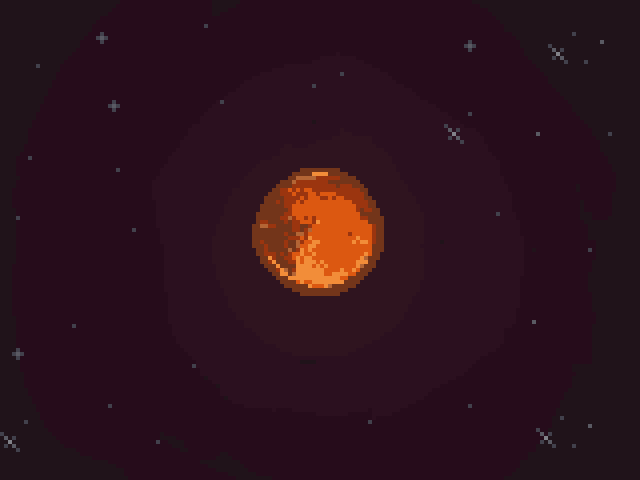
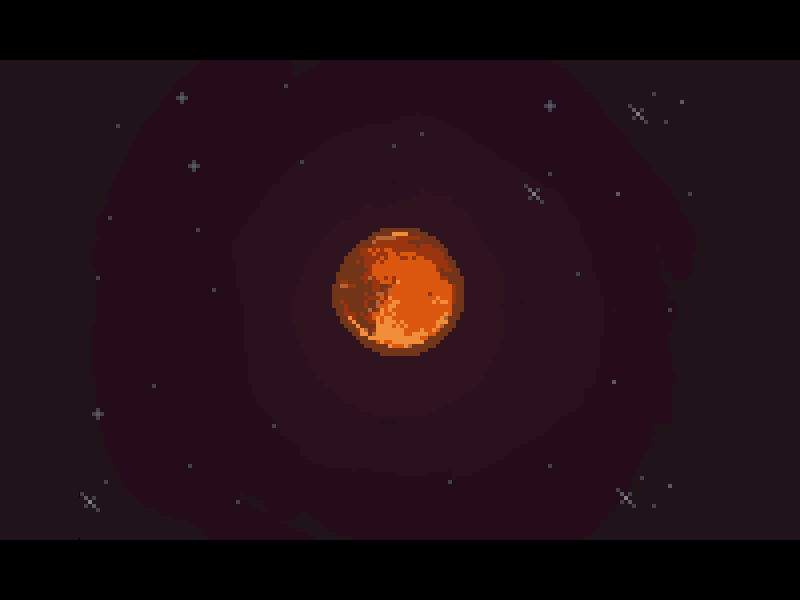
updated radmars intro to proper resolution, fixed title screen coloring

diff --git a/ld24.js b/ld24.js
@@ -49,7 +49,7 @@ var jsApp =
         me.debug.renderHitBox = false;
 
         // me.state.change( me.state.INTRO);
-        me.state.change( me.state.PLAY );
+        me.state.change( me.state.INTRO );
     }
 }
 
@@ -177,21 +177,21 @@ var RadmarsScreen = me.ScreenObject.extend({
 
     draw: function(context) {
         context.drawImage( this.bg, 0, 0 );
-        if( this.counter < 130) context.drawImage( this.text_mars, 266, 317 );
-        else if( this.counter < 135) context.drawImage( this.text_radmars2, 224, 317 );
-        else if( this.counter < 140) context.drawImage( this.text_radmars1, 224, 317 );
-        else if( this.counter < 145) context.drawImage( this.text_radmars2, 224, 317 );
-        else if( this.counter < 150) context.drawImage( this.text_radmars1, 224, 317 );
-        else if( this.counter < 155) context.drawImage( this.text_radmars2, 224, 317 );
-        else if( this.counter < 160) context.drawImage( this.text_radmars1, 224, 317 );
-        else if( this.counter < 165) context.drawImage( this.text_radmars2, 224, 317 );
-        else context.drawImage( this.text_radmars1, 224, 317 );
+        if( this.counter < 130) context.drawImage( this.text_mars, 266+80, 317+60 );
+        else if( this.counter < 135) context.drawImage( this.text_radmars2, 224+80, 317+60 );
+        else if( this.counter < 140) context.drawImage( this.text_radmars1, 224+80, 317+60 );
+        else if( this.counter < 145) context.drawImage( this.text_radmars2, 224+80, 317+60 );
+        else if( this.counter < 150) context.drawImage( this.text_radmars1, 224+80, 317+60 );
+        else if( this.counter < 155) context.drawImage( this.text_radmars2, 224+80, 317+60 );
+        else if( this.counter < 160) context.drawImage( this.text_radmars1, 224+80, 317+60 );
+        else if( this.counter < 165) context.drawImage( this.text_radmars2, 224+80, 317+60 );
+        else context.drawImage( this.text_radmars1, 224+80, 317+60 );
 
-        if( this.counter < 100) context.drawImage( this.glasses1, 249, 229*(this.counter/100) );
-        else if( this.counter < 105) context.drawImage( this.glasses2, 249, 229 );
-        else if( this.counter < 110) context.drawImage( this.glasses3, 249, 229 );
-        else if( this.counter < 115) context.drawImage( this.glasses4, 249, 229 );
-        else context.drawImage( this.glasses1, 249, 229 );
+        if( this.counter < 100) context.drawImage( this.glasses1, 249+80, 229*(this.counter/100)+60 );
+        else if( this.counter < 105) context.drawImage( this.glasses2, 249+80, 229+60 );
+        else if( this.counter < 110) context.drawImage( this.glasses3, 249+80, 229+60 );
+        else if( this.counter < 115) context.drawImage( this.glasses4, 249+80, 229+60 );
+        else context.drawImage( this.glasses1, 249+80, 229+60 );
     },
 
     onDestroyEvent: function() {
@@ -392,6 +392,7 @@ var TitleScreen = me.ScreenObject.extend(
     {
         this.parent( true );
         this.yCounter = 0;
+		this.blinkCounter = 0;
     },
 
     onResetEvent: function()
@@ -433,7 +434,13 @@ var TitleScreen = me.ScreenObject.extend(
         context.drawImage( this.backgroundImg, 0, 0 - this.yCounter );
         context.drawImage( this.backgroundImg, 0, 0 - this.yCounter + 1200 );
         context.drawImage( this.overlay, 0, 0 );
-        context.drawImage( this.cta, 296, 400 );
+        
+		this.blinkCounter++; 
+		if( this.blinkCounter > 20){
+				context.drawImage( this.cta, 296, 400 - 20 );
+				if(this.blinkCounter > 40) this.blinkCounter =0;
+		}
+		
     },
 
     onDestroyEvent: function()
